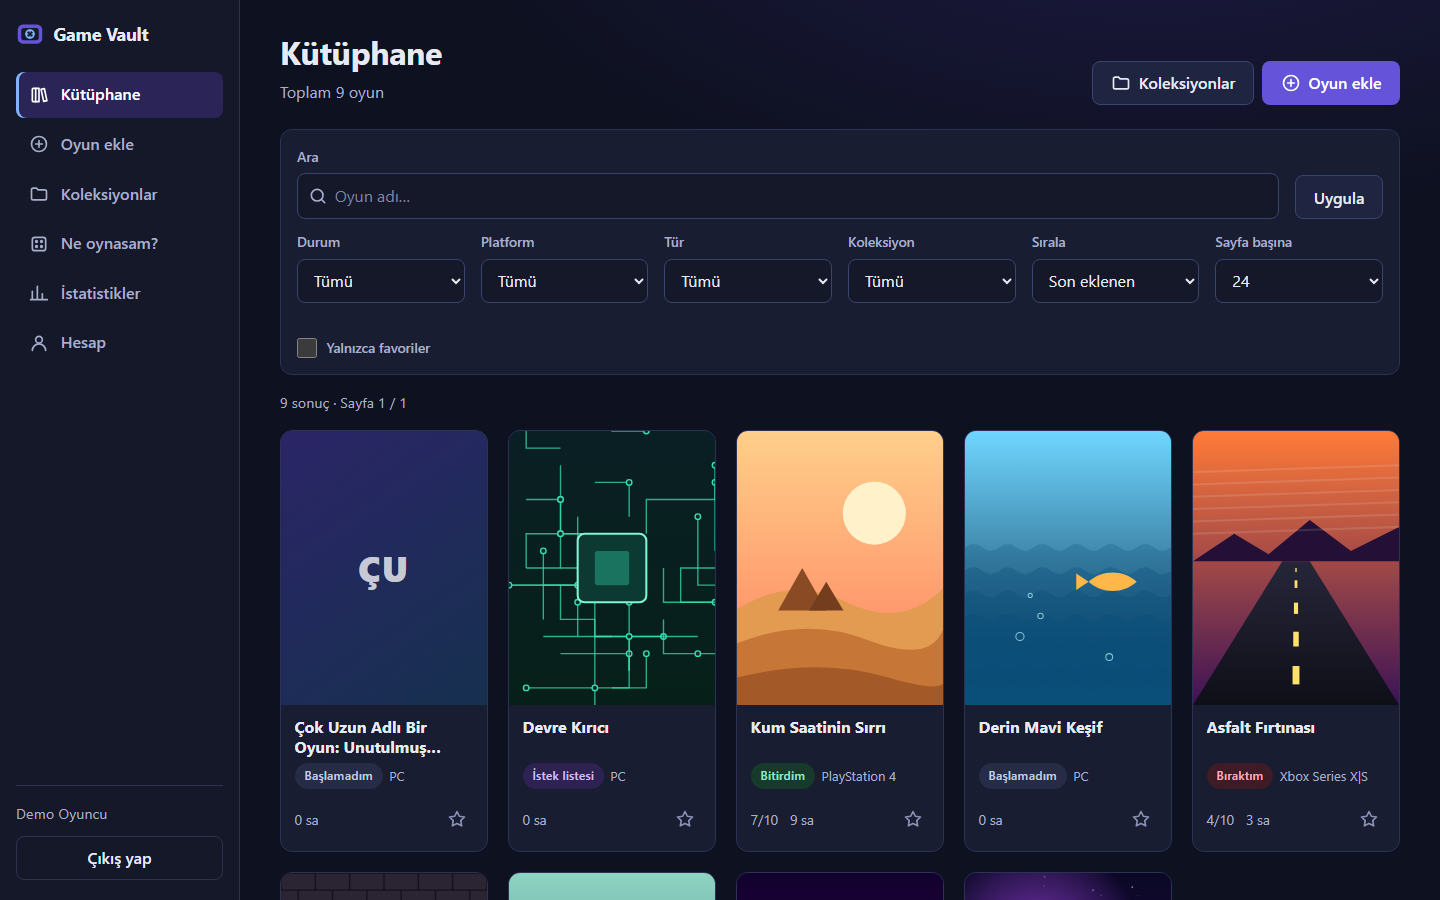
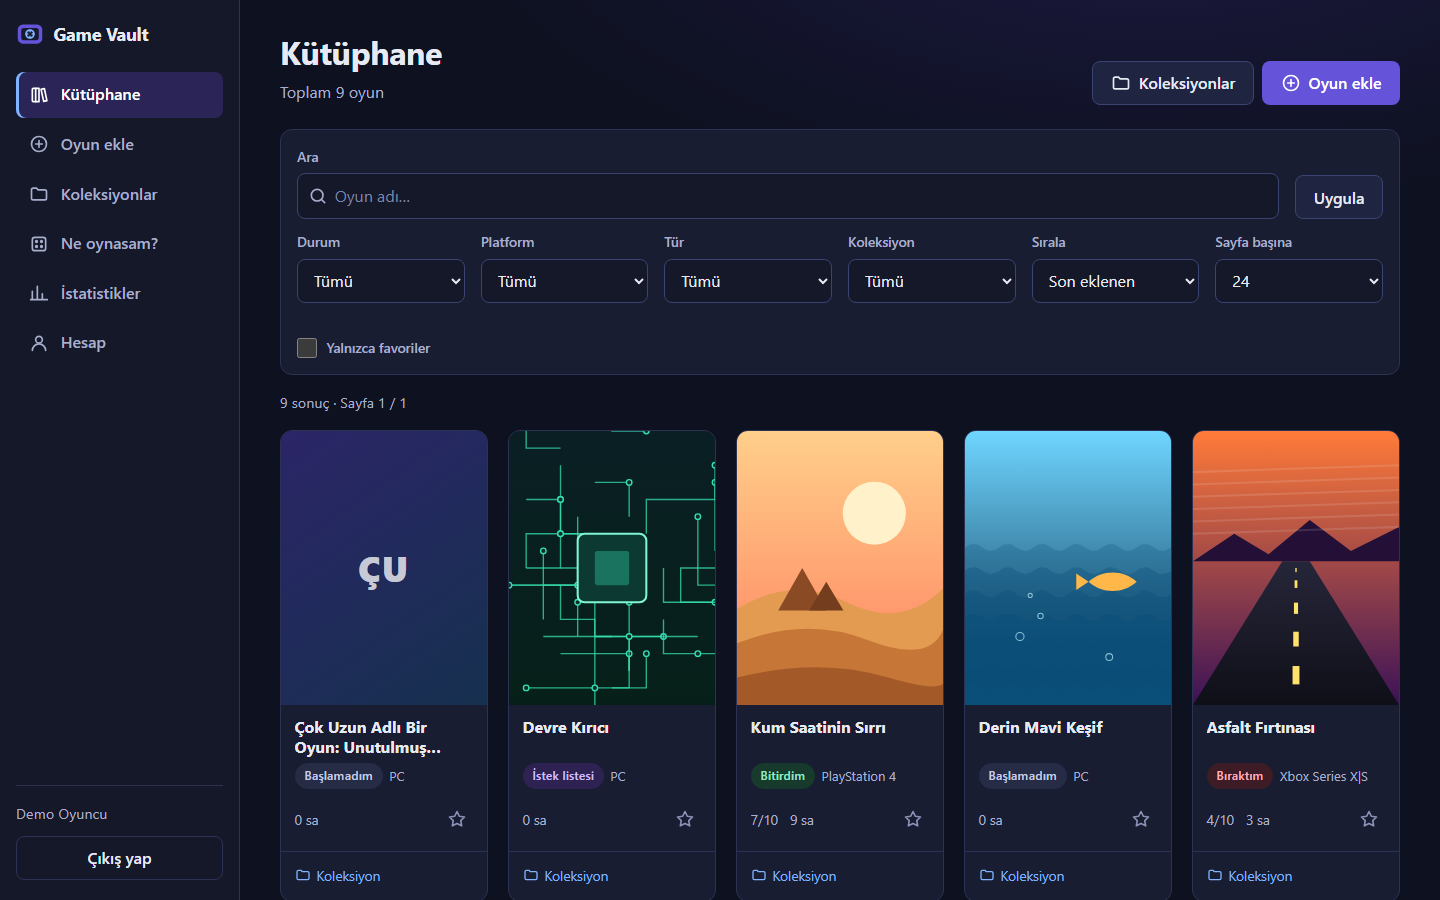
feat(ui): lay out statistics as equal-height table cards
Lists (status, platforms, genres, most played) become tables with rank,
value and share columns inside cards with icon headers, on a fixed
two-column grid. README, learning notes and screenshots are updated for
the three post-review changes.

Changed region(s): [[0.3438, 0.9644, 0.7812, 1.0], [0.8438, 0.9644, 0.9062, 0.9956], [0.2188, 0.9644, 0.2812, 0.9956]]

diff --git a/GameVault.Web/wwwroot/css/site.css b/GameVault.Web/wwwroot/css/site.css
@@ -504,18 +504,53 @@ input[type="checkbox"], input[type="radio"] { width: 20px; height: 20px; accent-
 /* ---------- İstatistik ---------- */
 .stat-tiles { display: grid; grid-template-columns: repeat(auto-fit, minmax(170px, 1fr)); gap: 1rem; margin-bottom: 1.5rem; }
 .stat-tile {
-    display: grid; gap: .2rem;
+    display: grid; gap: .2rem; align-content: start;
     background: linear-gradient(160deg, var(--surface-2), var(--surface));
     border: 1px solid var(--border); border-radius: var(--radius); padding: 1rem 1.1rem;
 }
 .stat-label { color: var(--text-muted); font-size: .85rem; }
-.stat-value { font-size: 1.7rem; font-weight: 750; }
+.stat-value { font-size: 1.7rem; font-weight: 750; font-variant-numeric: tabular-nums; }
 .stat-sub { color: var(--text-muted); font-size: .8rem; }
-.stats-grid { display: grid; grid-template-columns: repeat(auto-fit, minmax(300px, 1fr)); gap: 1rem; }
-.bar-list { list-style: none; padding: 0; margin: 0; display: grid; gap: .65rem; }
-.bar-list li { display: grid; grid-template-columns: 8.5rem minmax(0, 1fr) 2.5rem; gap: .75rem; align-items: center; }
-.bar-label { display: inline-flex; align-items: center; gap: .5rem; font-size: .9rem; }
-.bar-value { text-align: right; font-variant-numeric: tabular-nums; }
+.stat-icon {
+    display: inline-flex; align-items: center; justify-content: center; width: 36px; height: 36px; margin-bottom: .35rem;
+    border-radius: var(--radius-sm); background: var(--accent-soft); color: var(--accent-2);
+}
+.stat-icon-fav { color: var(--warning-text); }
+.stat-icon-fav .icon { fill: currentColor; }
+
+/* İstatistik kartları: iki sütunlu, aynı satırdaki kartlar eşit yükseklikte */
+.stats-grid { display: grid; grid-template-columns: repeat(2, minmax(0, 1fr)); gap: 1rem; align-items: stretch; }
+@media (max-width: 900px) { .stats-grid { grid-template-columns: minmax(0, 1fr); } }
+.stat-card { display: flex; flex-direction: column; min-width: 0; }
+.stat-card-head {
+    display: flex; align-items: flex-start; gap: .75rem;
+    margin: 0 0 1rem; padding-bottom: .85rem; border-bottom: 1px solid var(--border);
+}
+.stat-card-head h2 { margin: 0; font-size: 1.1rem; }
+.stat-card-head .chart-sub { margin: .2rem 0 0; }
+.stat-card-icon {
+    display: inline-flex; align-items: center; justify-content: center; flex: none; width: 34px; height: 34px;
+    border-radius: var(--radius-sm); background: var(--surface-2); color: var(--accent-2);
+}
+.stat-card-icon .icon { width: 18px; height: 18px; }
+
+.stat-table { width: 100%; border-collapse: collapse; font-size: .92rem; }
+.stat-table th, .stat-table td { padding: .55rem .5rem; border-bottom: 1px solid var(--border); text-align: left; vertical-align: middle; }
+.stat-table tbody tr:last-child > * { border-bottom: 0; }
+.stat-table tbody tr:hover { background: var(--surface-2); }
+.stat-table thead th { color: var(--text-muted); font-size: .78rem; font-weight: 600; text-transform: uppercase; letter-spacing: .05em; }
+.stat-table tbody th { font-weight: 550; }
+.stat-table .num { text-align: right; font-variant-numeric: tabular-nums; white-space: nowrap; }
+.stat-table .rank-col { width: 2.5rem; color: var(--text-muted); text-align: left; }
+.stat-table .share-col { width: 38%; }
+.share { display: flex; align-items: center; gap: .6rem; }
+.share progress { flex: 1; height: 8px; min-width: 3rem; }
+.share-value { flex: none; width: 3rem; text-align: right; color: var(--text-muted); font-size: .85rem; font-variant-numeric: tabular-nums; }
+.status-name { display: inline-flex; align-items: center; gap: .5rem; }
+@media (max-width: 480px) {
+    .stat-table .share-col { width: 30%; }
+    .share progress { display: none; }
+}
 .dot { width: 10px; height: 10px; border-radius: 50%; flex: none; }
 .dot.status-not-started { background: #8d95bd; }
 .dot.status-playing { background: #6fb6ff; }
@@ -530,13 +565,7 @@ progress {
 progress::-webkit-progress-bar { background: var(--bg-elevated); border-radius: 999px; }
 progress::-webkit-progress-value { background: linear-gradient(90deg, var(--accent), var(--accent-2)); border-radius: 999px; }
 progress::-moz-progress-bar { background: linear-gradient(90deg, var(--accent), var(--accent-2)); border-radius: 999px; }
-.rank-list { margin: 0; padding-left: 1.25rem; display: grid; gap: .5rem; }
-.rank-list li { padding-left: .25rem; }
-.rank-row { display: flex; justify-content: space-between; align-items: baseline; gap: 1rem; }
 .rank-value { flex: none; color: var(--text-muted); font-variant-numeric: tabular-nums; }
-.rank-bars { list-style: none; margin: 0; padding: 0; display: grid; gap: .7rem; }
-.rank-bars li { display: grid; gap: .3rem; }
-.rank-bars progress { height: 8px; }
 
 /* ---------- Grafikler (sunucuda çizilen SVG; renkler sınıflarla, satır içi stil yok) ---------- */
 /* İki seri paleti koyu zemin (#181d31) için doğrulandı: açıklık bandı, renk körlüğü ayrımı (ΔE ≥ 24), kontrast ≥ 3:1. */

diff --git a/README.tr.md b/README.tr.md
@@ -73,7 +73,7 @@ $env:GAMEVAULT_SCREENSHOTS_DIR = "$PWD/docs/screenshots"; dotnet test tests/Game
   gönderilir ve hata durumunda artan aralıklarla yeniden denenir.
 - **Dayanıklı harici API.** RAWG oyun veritabanı `IHttpClientFactory` üzerinden çağrılır; zaman aşımı, boyutu
   sınırlı bir önbellek ve basit bir devre kesici vardır. RAWG hata verirse sayfa bir mesaj gösterir, uygulamanın geri
-  kalanı çalışmaya devam eder. RAWG'a yalnızca arama metni gider. API anahtarı User Secrets'ta durur ve loglara asla
+  kalanı çalışmaya devam eder. RAWG'a yalnızca arama metni, keşifte ise tür ve platform gider. API anahtarı User Secrets'ta durur ve loglara asla
   yazılmaz; bunu bir test doğrular.
 - **Gerçek testler.** 200'den fazla entegrasyon testi `WebApplicationFactory` üzerinden gerçek bir SQL Server'a karşı
   çalışır. Playwright E2E testleri masaüstü ve mobil akışları kapsar, axe-core da erişilebilirliği (WCAG 2.1 A/AA)
@@ -85,12 +85,12 @@ $env:GAMEVAULT_SCREENSHOTS_DIR = "$PWD/docs/screenshots"; dotnet test tests/Game
 
 | Alan | İçerik |
 |---|---|
-| Kütüphane | Kapak odaklı kartlar; ada göre arama; durum, platform, tür, koleksiyon ve favori filtreleri; 7 sıralama; sayfalama |
+| Kütüphane | Kapak odaklı kartlar; ada göre arama; durum, platform, tür, koleksiyon ve favori filtreleri; 7 sıralama; sayfalama. Her karttan oyun tek tıkla bir koleksiyona eklenip çıkarılabilir. |
 | Oyunlar | Ad, kapak (8 hazır kapak ya da izinli https adresi), açıklama, platform, en fazla 5 tür, durum, süre, 1–10 puan, notlar, başlama, bitirme ve çıkış tarihleri, tahmini bitirme süresi, favori, koleksiyonlar. Kütüphanede aynı adlı oyun varsa eklemeden önce uyarır. |
 | Koleksiyonlar | "Hafta sonu", "Arkadaşlarla" gibi kişisel listeler. Koleksiyonlar sayfasında ya da oyun formunda ad yazarak oluşturulur; bir oyun en fazla 10 koleksiyonda olabilir. Koleksiyonu yeniden adlandırmak ya da silmek oyunlara dokunmaz. |
 | RAWG araması | [RAWG](https://rawg.io)'da isimle arama; kapak, çıkış tarihi, platform ve türleri görüp bir sonucu seçerek ekleme formunu doldurma. Her kullanıcı bir RAWG oyununu yalnızca bir kez ekleyebilir. |
-| Ne oynasam? | Sıradaki oyunlardan (başlanmamış, ara verilmiş, isteğe bağlı olarak istek listesi) platform, tür ve en fazla tahmini süreye göre rastgele öneri. “Başka öner” son öneriyi atlar, “Oynamaya başla” oyunu “Oynuyorum” olarak işaretler. |
-| İstatistikler | Toplam oyun ve süre, ortalama puan, tamamlama oranı, durum dağılımı, son 12 ayda aylık başlanan ve bitirilen oyunlar, puan dağılımı, en çok kullanılan platform ve türler, en çok oynananlar. Grafikler sunucuda SVG olarak çizilir (grafik kütüphanesi ve satır içi stil yok); her birinin tablo görünümü vardır. |
+| Ne oynasam? | Sıradaki oyunlardan (başlanmamış, ara verilmiş, isteğe bağlı olarak istek listesi) platform, tür ve en fazla tahmini süreye göre rastgele öneri. “Başka öner” son öneriyi atlar, “Oynamaya başla” oyunu “Oynuyorum” olarak işaretler. “RAWG'dan keşfet” sekmesi, seçilen türe ya da kullanıcının en çok sevdiği türe göre kütüphanede olmayan popüler oyunlar önerir. |
+| İstatistikler | Özet kutucukları; ardından durum dağılımı, son 12 ayda aylık başlanan ve bitirilen oyunlar, puan dağılımı, en çok kullanılan platform ve türler ve en çok oynananlar için kartlar. Listeler sıra, değer ve pay sütunlu tablolardır. Grafikler sunucuda SVG olarak çizilir (grafik kütüphanesi ve satır içi stil yok); her birinin tablo görünümü vardır. |
 | Hesap | E-posta doğrulamalı kayıt, parola sıfırlama, görünen ad, parola değiştirme, diğer oturumları kapatma, isteğe bağlı iki adımlı doğrulama (doğrulayıcı uygulama + kurtarma kodları), JSON dışa ve içe aktarma (önce kontrol modu, kopyalar atlanır), hesap silme |
 | Arayüz | Masaüstünde yan menü, mobilde alt gezinme çubuğu; klavyeyle kullanım; `aria-invalid` ile form hataları; azaltılmış hareket desteği |
 
@@ -185,7 +185,7 @@ tokenı ile korunan bir HTML form gönderimidir.
 | `/Library` | kullanıcı | Oyunları arama, filtreleme, sıralama ve sayfalama (`?q=&status=&platform=&genre=&collection=&fav=&sort=&size=&page=`) |
 | `/Library/New`, `/Library/{id}`, `/Library/{id}/Edit`, `/Library/{id}/Delete` | kullanıcı (yalnızca sahibi) | Oyun ekleme, görüntüleme, düzenleme ve silme |
 | `/Library/Search?q=` · `/Library/New?rawgId=` | kullanıcı | RAWG'da arama ve seçilen sonuçla ekleme formunu doldurma |
-| `/Suggest?platform=&genre=&maxHours=&wishlist=` | kullanıcı | “Ne oynasam?” önerisi. `handler=Start` ile yapılan POST, oyunu “Oynuyorum” olarak işaretler. |
+| `/Suggest?platform=&genre=&maxHours=&wishlist=` | kullanıcı | “Ne oynasam?” önerisi. `handler=Start` ile yapılan POST, oyunu “Oynuyorum” olarak işaretler. `source=rawg` RAWG keşif sekmesini açar. |
 | `/Stats` | kullanıcı | Kullanıcının kendi verisinden istatistikler |
 | `/Collections` | kullanıcı (yalnızca sahibi) | Koleksiyonları listeleme, oluşturma, yeniden adlandırma ve silme |
 | `/Account/Settings`, `/Account/TwoFactor`, `/Account/Export`, `/Account/Import`, `/Account/Delete` | kullanıcı | Profil, parola, oturumlar, iki adımlı doğrulama, JSON dışa ve içe aktarma, hesap silme |

diff --git a/README.md b/README.md
@@ -72,7 +72,7 @@ What I focused on, beyond the CRUD:
   backoff.
 - **Resilient external API.** The RAWG game database is called through `IHttpClientFactory` with a timeout, a
   bounded cache and a simple circuit breaker. When RAWG fails, the page shows a message and the rest of the app keeps
-  working. RAWG receives only the search text. The API key lives in User Secrets and never shows up in logs, which a
+  working. RAWG receives only the search text, or a genre and platform for discovery. The API key lives in User Secrets and never shows up in logs, which a
   test checks.
 - **Real tests.** 200+ integration tests run against a real SQL Server through `WebApplicationFactory`. Playwright
   E2E tests cover desktop and mobile flows, and axe-core checks accessibility (WCAG 2.1 A/AA).
@@ -83,12 +83,12 @@ What I focused on, beyond the CRUD:
 
 | Area | What you can do |
 |---|---|
-| Library | Cover-first cards, search by title, filter by status, platform, genre, collection or favorite, 7 sort orders, pagination |
+| Library | Cover-first cards, search by title, filter by status, platform, genre, collection or favorite, 7 sort orders, pagination. Each card can add the game to or remove it from a collection in one click. |
 | Games | Title, cover (8 built-in covers or an allow-listed https URL), description, platform, up to 5 genres, status, playtime, 1–10 rating, notes, start/finish/release dates, estimated hours to beat, favorite, collections. Warns before adding a title that is already in the library. |
 | Collections | Personal lists such as "Weekend" or "With friends". Create them on the collections page or by typing a name in the game form; a game can be in up to 10. Renaming or deleting a collection never touches the games. |
 | RAWG search | Search [RAWG](https://rawg.io) by title, see cover, release date, platforms and genres, then pick a result to prefill the add form. Each user can add a RAWG game only once. |
-| What should I play? | Random pick from the backlog (not started, on hold and optionally wishlist), filtered by platform, genre and max estimated hours. "Pick another" skips the last pick, and "Start playing" marks the game as playing. |
-| Statistics | Total games and hours, average rating, completion rate, status breakdown, started vs. finished games per month (last 12 months), rating distribution, top platforms and genres, most played. Charts are server-rendered SVG (no chart library, no inline styles), each with a table view. |
+| What should I play? | Random pick from the backlog (not started, on hold and optionally wishlist), filtered by platform, genre and max estimated hours. "Pick another" skips the last pick, and "Start playing" marks the game as playing. A discover tab suggests popular RAWG games that are not in the library yet, by the chosen genre or by the genre the user rates highest. |
+| Statistics | Summary tiles, then cards for status breakdown, started vs. finished games per month (last 12 months), rating distribution, top platforms and genres, and most played games. Lists are tables with rank, value and share columns. Charts are server-rendered SVG (no chart library, no inline styles), each with a table view. |
 | Account | Registration with email confirmation, password reset, display name, password change, sign out other sessions, optional two-factor authentication (authenticator app + recovery codes), JSON export and import (check-first mode, duplicates skipped), account deletion |
 | UX | Responsive layout with a sidebar on desktop and a bottom nav on mobile, keyboard accessible, `aria-invalid` form errors, reduced motion support |
 
@@ -183,7 +183,7 @@ antiforgery token.
 | `/Library` | user | Search, filter, sort and paginate the user's games (`?q=&status=&platform=&genre=&collection=&fav=&sort=&size=&page=`) |
 | `/Library/New`, `/Library/{id}`, `/Library/{id}/Edit`, `/Library/{id}/Delete` | user (owner only) | Create, view, edit and delete a game |
 | `/Library/Search?q=` · `/Library/New?rawgId=` | user | Search RAWG, then prefill the add form from a result |
-| `/Suggest?platform=&genre=&maxHours=&wishlist=` | user | "What should I play?" suggestion. A POST with `handler=Start` marks the game as playing. |
+| `/Suggest?platform=&genre=&maxHours=&wishlist=` | user | "What should I play?" suggestion. A POST with `handler=Start` marks the game as playing. `source=rawg` shows the RAWG discover tab. |
 | `/Stats` | user | Statistics from the user's own data |
 | `/Collections` | user (owner only) | List, create, rename and delete collections |
 | `/Account/Settings`, `/Account/TwoFactor`, `/Account/Export`, `/Account/Import`, `/Account/Delete` | user | Profile, password, sessions, two-factor authentication, JSON export and import, account deletion |

diff --git a/docs/OGRENME_NOTLARI.md b/docs/OGRENME_NOTLARI.md
@@ -551,6 +551,32 @@ doğrulayıcı uygulamanın (Google/Microsoft Authenticator vb.) ürettiği 6 ha
 > bildirimi. Kaba kuvvete karşı hesap kilidi var ve parolayı yeniden girmek bu kilidi sıfırlamıyor. Testlerde kodları
 > bağımsız bir RFC 6238 uygulamasıyla ürettim.
 
+### Test sonrası iyileştirmeler
+Uygulamayı elle denedikten sonra üç değişiklik istedim.
+
+- **Karttan koleksiyona ekleme:** Kütüphane kartının altına "Koleksiyon" açılır listesi geldi. Her koleksiyon bir
+  form düğmesi; basınca oyun eklenir ya da çıkarılır (`aria-pressed` durumu gösterir). JavaScript yok: `<details>` ve
+  normal POST formları yeterli, işlemden sonra aynı sayfaya (filtreler korunarak) dönülür. Kartta `overflow: hidden`
+  olduğu için liste açılır pencere değil, kartın içinde açılır. Servis (`ToggleCollectionAsync`) hem oyunun hem de
+  koleksiyonun çağırana ait olduğunu kontrol eder ve oyun başına 10 koleksiyon sınırını uygular; testler başka
+  kullanıcının oyunu ya da koleksiyonuyla denemenin 404 döndüğünü doğrular.
+- **RAWG'dan öneri (keşif):** "Ne oynasam?" sayfasına "RAWG'dan keşfet" sekmesi eklendi
+  ([DiscoveryService.cs](../GameVault.Business/Catalog/DiscoveryService.cs)). RAWG'dan seçilen tür ve platformdaki
+  popüler oyunların rastgele bir sayfası alınır (ilk 200 içinden), kütüphanede olanlar RAWG kimliğiyle **ve** adıyla
+  elenir (elle eklenmiş oyunlar da yakalansın diye), kalanlardan 6 tanesi gösterilir.
+  - **Zevke göre tür:** Tür seçilmemişse favori, 8+ puanlı ya da bitirilmiş oyunlarda en sık geçen tür kullanılır. Bu
+    hesap veritabanında yapılır; RAWG'a kullanıcının kütüphanesi değil yalnızca tür kısa adı gider.
+  - **Gizlilik:** RAWG'a giden istekte yalnızca `genres`, `platforms`, `ordering`, `page`, `page_size` ve anahtar var;
+    bunu bir test doğruluyor. Yanıt tüm kullanıcılar için ortak önbellekte tutulur, çünkü kullanıcıya özel değildir.
+  - **Gerçek API davranışı:** RAWG, sonuç sayısını aşan sayfa için 404 döner. Az oyunlu bir tür seçilirse rastgele
+    sayfa boş kalmasın diye ilk sayfaya geri dönülür; sahte RAWG da testlerde aynı şekilde davranıyor.
+  - Aramadaki oran sınırı (kullanıcı başına) keşif için de geçerli.
+- **İstatistik sayfası düzeni:** Önceki ızgara `auto-fit` ile kartları ekran genişliğine göre 2-3 sütuna dağıttığı için
+  yükseklikler uyuşmuyordu. Şimdi sabit iki sütun var (mobilde bir), aynı satırdaki kartlar eşit yükseklikte ve her
+  kartın ikonlu bir başlığı var. Liste bölümleri (durum, platform, tür, en çok oynanan) gerçek `<table>` oldu: sıra,
+  ad, değer ve "pay" sütunu. Tablolar ekran okuyucular için de daha anlamlı (`<caption>`, `scope="row"`). Satır içi
+  stil hâlâ yok: pay çubukları `<progress>` öğesi.
+
 ---
 
 ## Kendi notlarım
